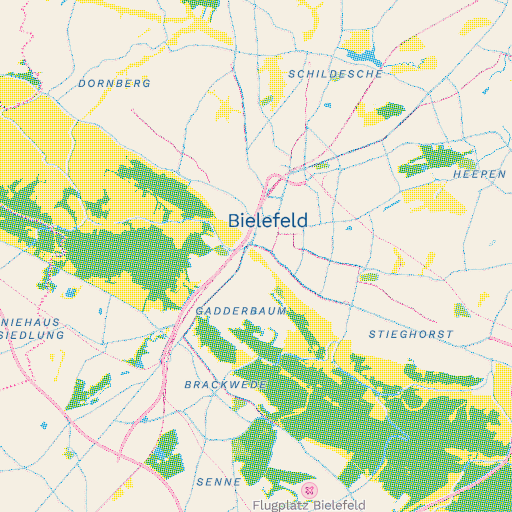
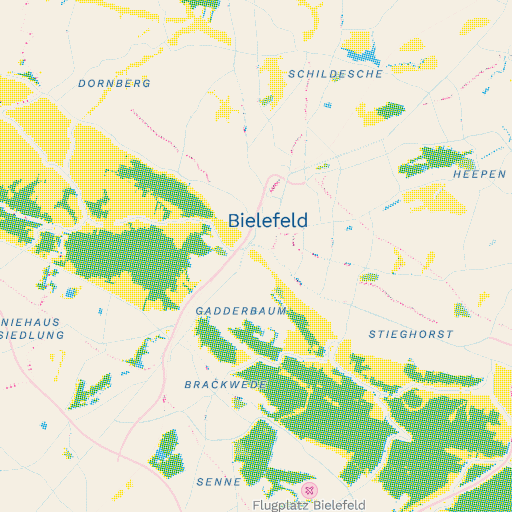
Siebdruck: Rasterpunkte ganz statt an Kanten abgeschnitten (Farbmenge am Punktmittelpunkt), dichteres Straßenraster

diff --git a/make-tiles.py b/make-tiles.py
@@ -1152,15 +1152,24 @@ def halftone(img, ox, oy, k, cfg, z=17):
     out = np.broadcast_to(paper, img.shape).copy()
     for c, val in plates.items():
         val = ndimage.shift(val, (off[c][1] * k, off[c][0] * k), order=1, mode="nearest")   # Passer-Versatz
-        fn = ndimage.shift(fine.astype(float), (off[c][1] * k, off[c][0] * k), order=0, mode="nearest") > .5
-        val = np.where(fn, np.minimum(val, cfg.get("fine_amount", .7)), val)   # feine Punkte bleiben getrennt
-        a = np.radians(angle[c])
-        pt = np.where(fn, pitch * cfg.get("fine", .45), pitch)    # Rasterweite je Pixel
-        u, v = (gx * np.cos(a) + gy * np.sin(a)) / pt, (-gx * np.sin(a) + gy * np.cos(a)) / pt
-        d = np.hypot(u - np.round(u), v - np.round(v))            # Abstand zum nächsten Rasterpunkt, Zellen
-        r = np.sqrt(np.clip(val * cfg.get("gain", 1.1), 0, 1.6) / np.pi)   # flächentreu: Punktfläche = Farbmenge; ab ~1,6 voll
-        px = pt * k                                                # Zelle in Bildpixeln
-        dot = (np.clip((r - d) * px + .5, 0, 1) * np.clip(r * px * 2 - .5, 0, 1))[..., None]   # Kante 1 px, kein Staub
+        fn = ndimage.shift(fine.astype(float), (off[c][1] * k, off[c][0] * k), order=0, mode="nearest")
+        near = ndimage.maximum_filter(fn, size=int(2 * k) * 2 + 1)   # grobe Punkte halten Abstand von Volltönen
+        a, gain = np.radians(angle[c]), cfg.get("gain", 1.1)
+
+        def screen(pt, fine_cell, cap):
+            """Punkte der Rasterweite pt: Farbmenge am Punktmittelpunkt abgelesen, damit jeder Punkt ganz oder gar nicht
+            gedruckt wird (Kanten schneiden keine Punkte an, Punkte ragen wie im Druck etwas über die Kante)."""
+            u, v = (gx * np.cos(a) + gy * np.sin(a)) / pt, (-gx * np.sin(a) + gy * np.cos(a)) / pt
+            ru, rv = np.round(u), np.round(v)
+            cx, cy = ((ru * np.cos(a) - rv * np.sin(a)) * pt - ox) * k, ((ru * np.sin(a) + rv * np.cos(a)) * pt - oy) * k
+            at = lambda arr, o: ndimage.map_coordinates(arr, [cy, cx], order=o, mode="nearest")
+            mine = at(fn, 0) > .5 if fine_cell else at(near, 0) <= .5   # Punkt gehört zum feinen bzw. groben Raster
+            r = np.sqrt(np.clip(np.minimum(at(val, 1), cap) * gain, 0, 1.6) / np.pi)   # flächentreu; ab ~1,6 voll
+            px, d = pt * k, np.hypot(u - ru, v - rv)
+            return np.clip((r - d) * px + .5, 0, 1) * np.clip(r * px * 2 - .5, 0, 1) * mine   # Kante 1 px, kein Staub
+
+        # Volltöne fein (kleine, getrennte Punkte), sonst grob
+        dot = np.maximum(screen(pitch, False, 9), screen(pitch * cfg.get("fine", .35), True, cfg.get("fine_amount", .85)))[..., None]
         out = 1 - (1 - out) * (1 - dot * ink[c]) if light else out * (1 - dot * (1 - ink[c] / paper))
     return out
 

diff --git a/CLAUDE.md b/CLAUDE.md
@@ -168,7 +168,7 @@ There are no tests. To check a rendering change, re-render and look at a tile ne
   - **Drafts 2026-11-26** (user picked them from a list of gaps in the standard set; all standard, names are working titles; `build_site()` takes every style whose family is not in `exclude`, so they go on the site with the next `--site` run):
     - `schwarzplan` / `schwarzplan-dark` ("Weißplan"): figure-ground plan, black buildings on white, all road/POI layers hidden, only place and street names in grey, signal-red marker. OMT buildings start at z13, so residential/commercial/industrial landuse is drawn dark grey below and fades out by z13.
     - `blaupause` (dark) / `lichtpause` (light, diazo copy): technical drawing. Hollow roads: fills = background, then the light `*-casing` globs (order matters, `highway-*` also matches casings), buildings via `outlines`, wood/meadow/cemetery patterns, `water_lines`, no shields. `lichtpause` was made from `blaupause` by colour substitution; keep both in sync.
-    - `siebdruck` / `siebdruck-nacht` (reworked 2026-11-26 after the user sent CMYK halftone references): flat colours only; style key `halftone = { mode, pitch, pitch_step, offset, paper, inks, angles, black, gain, fine, fine_from, fine_amount }` → `halftone()` (same pipeline as `watercolor`: `post_of()`, `wc_tile()` with neighbours, labels crisp on top via `over()`). Separation solves a 3×3 system per pixel against the real ink colours (densities −ln for `cmyk` on paper, linear over black for `mode = "light"`), so a fill in an ink colour prints only on its own plate; black takes the common part. Screens at 0°/15°/45°/75° (rosettes), area-true dots (r = √(amount/π)), plates offset 1 px (misregistration), multiplied (cmyk) or screened (light). Solid tones (any plate > `fine_from`, i.e. roads, paths, rail) use a finer screen (`fine` × pitch, amount capped at `fine_amount`) so roads are made of small dots too (user request). Fill colours in the TOMLs are ink mixes (computed, they look odd as hex but give the intended dot amounts). Pitch 6 world px at z17, 1 px finer per zoom below. ~95 s per style. Not called "Riso" (RISO Kagaku is a brand).
+    - `siebdruck` / `siebdruck-nacht` (reworked 2026-11-26 after the user sent CMYK halftone references): flat colours only; style key `halftone = { mode, pitch, pitch_step, offset, paper, inks, angles, black, gain, fine, fine_from, fine_amount }` → `halftone()` (same pipeline as `watercolor`: `post_of()`, `wc_tile()` with neighbours, labels crisp on top via `over()`). Separation solves a 3×3 system per pixel against the real ink colours (densities −ln for `cmyk` on paper, linear over black for `mode = "light"`), so a fill in an ink colour prints only on its own plate; black takes the common part. Screens at 0°/15°/45°/75° (rosettes), area-true dots (r = √(amount/π)), plates offset 1 px (misregistration), multiplied (cmyk) or screened (light). Solid tones (any plate > `fine_from`, i.e. roads, paths, rail) use a finer screen (`fine` 0.35 × pitch, amount capped at `fine_amount` 0.85) so roads are made of small dots too (user request); coarse dots keep ~2 px away from them. Each dot reads its amount at its own centre (`screen()`), so dots are whole or absent and never cut by building edges (user request). Fill colours in the TOMLs are ink mixes (computed, they look odd as hex but give the intended dot amounts). Pitch 6 world px at z17, 1 px finer per zoom below. ~95 s per style. Not called "Riso" (RISO Kagaku is a brand).
     - `aquarell` / `aquarell-nacht` (second attempt, user: "deutlich mehr an Stamen Watercolor"): plain flat fills in a Stamen-like palette (ochre land, strong blue, yellow-green, light roads without casings); the look comes from the style key `watercolor = { warp, warp_scale, soft, edge_width, edge, wash, wash_scale, grain, paper }` → `watercolor()` pixel post-processing: domain warp (ragged edges), slight blur, pigment density A = −ln(brightness) raised at area edges (pigment pooling), large-cloud wash, grain and paper; all noise via module-level `vnoise()` at world coordinates. `wc_tile()` stitches the 3×3 neighbours (cached in `parent()`) and works with a quarter-tile margin, so tiles are seamless. Labels: `split_labels(style, shift=False)`, second tileserver pass, `over()` composites them crisp on top, then pngquant (`colors = 64`). Coarse noise is computed on every 4th pixel and upscaled (6 min → 2:20 per style); tiles ~40 MB per style vs ~24. `readme_previews()` uses `wc_static()` (single static image, no neighbours). `post_of(meta)` picks the post-processing (`watercolor` or `halftone`).
     - `marke` / `marke-dark`: output of `tools/gen_marke.py` for #2a6fdb. The generator derives everything in OKLCH from the accent (neutral surfaces tinted with half its chroma up to 0.01, majors in the accent, water/green fixed hues, POI text shifted in lightness to ≥ 4.5:1, marker = the unchanged brand colour, chroma clipped into sRGB). Per customer: generate, then render with `--style styles/<name>.toml`.
   - **Nerd** (editor-theme palettes): `dayfox`/`nightfox`, `catppuccin-latte`/`-mocha`, `dracula-light` ("Alucard", the official Dracula light palette) / `dracula`, `solarized-light`/`-dark`, `gruvbox-light`/`-dark`, `everforest-light`/`-dark`, `one-light`/`-dark` (Atom One) (all MIT), and `tokyonight-day`/`-night` (Apache-2.0).
